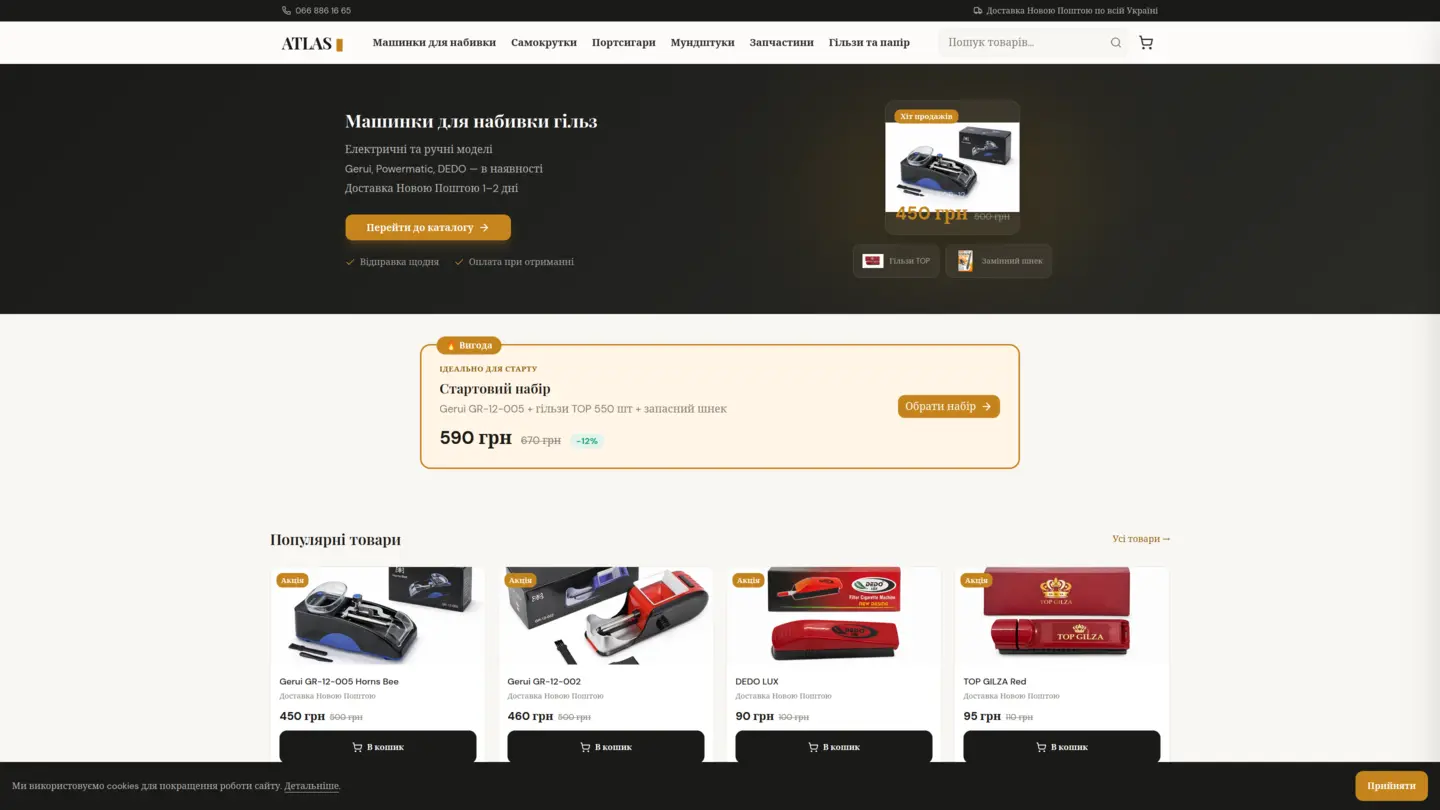
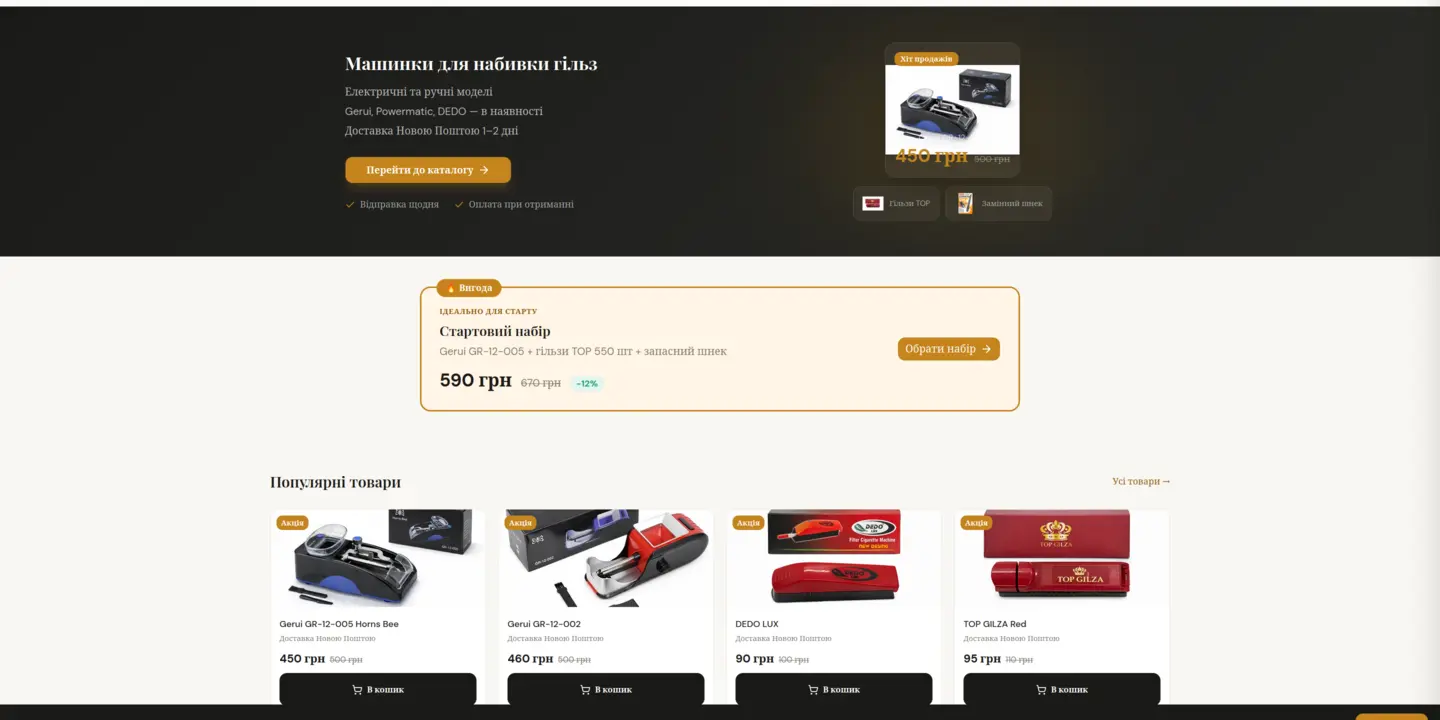
fix: crop Atlas screenshot — remove browser chrome, fix dimensions

diff --git a/public/projects/atlas/index.html b/public/projects/atlas/index.html
@@ -156,7 +156,7 @@
 
 <div class="case-body">
 
-  <img src="/images/atlas.webp" alt="Atlas — інтернет-магазин машинок для набивки гільз" style="width:100%; border-radius:16px; margin:0 0 2.5rem; box-shadow:0 10px 40px rgba(0,0,0,0.5); border:1px solid var(--border-color);" width="1440" height="810" loading="lazy">
+  <img src="/images/atlas.webp" alt="Atlas — інтернет-магазин машинок для набивки гільз" style="width:100%; height:auto; border-radius:16px; margin:0 0 2.5rem; box-shadow:0 10px 40px rgba(0,0,0,0.5); border:1px solid var(--border-color);" width="1440" height="720" loading="lazy">
 
   <div class="stats-row">
     <div class="stat-box">

diff --git a/public/index.html b/public/index.html
@@ -2200,7 +2200,7 @@
           </a>
           <a href="/projects/atlas/" class="portfolio-card reveal reveal-d1" style="text-decoration:none;">
             <img class="portfolio-bg" src="images/atlas.webp" alt="Atlas — інтернет-магазин" loading="lazy"
-              width="1440" height="810" style="background-color: #1A1A18;">
+              width="1440" height="720" style="background-color: #1A1A18;">
             <div class="portfolio-overlay"></div>
             <div class="portfolio-content">
               <span class="portfolio-tag" style="background:rgba(196,132,29,0.3);">E-commerce · Medusa.js</span>
